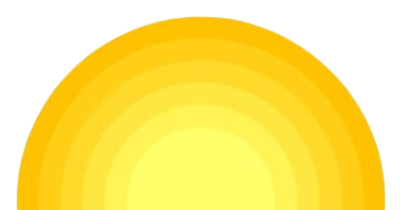
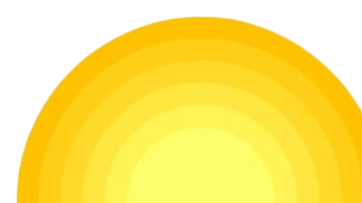
added the img

diff --git a/styles/portfolio.css b/styles/portfolio.css
@@ -13,7 +13,7 @@ body {
 .btn-primary {
     border-radius: 5px;
     background-color: #FD6E0A;
-    border: 0px;
+    border: 5px;
     color: white;
     font-size: 20px;
     font-weight: 700px;
@@ -22,7 +22,7 @@ body {
 
 nav {
     display: flex;
-    justify-content: space-between;
+    justify-content: space-around;
     align-items: center;
     margin: 0px 200px;
 }
@@ -31,7 +31,6 @@ nav {
     color: #181818;
     font-size: 45px;
     font-weight: 800;
-
 }
 
 nav>ul {
@@ -50,19 +49,21 @@ nav a {
 }
 .header{
     background-color: #fff8f3;
-   background-image: url('../images/yellow2.png');
+    background-image: url('../images/yellow2.png') ;
     background-repeat: no-repeat;
-    background-position: bottom right;
-    background-size: 1100px;
+    background-position: bottom right ;
+    background-size: 500px;
+    
 }
 
 .banner{
-    padding: 30px 30px 0px 150px;
+    padding: 0px 0px 0px 150px;
     display: flex;
     align-items: center;
     justify-content: space-between;
 }
-.banner .profile-pic{width: 1400px;
+.banner .profile-pic{width: 600px;margin-left: 300px;
+    display: flex;
 }
 .banner-greeting{font-size: 45px;
 color: #474747;
@@ -72,9 +73,8 @@ margin-bottom: 0px;
     font-size: 85px;
     font-weight: 700px;
     margin-top: 5px;
-    margin-bottom: 20px;
+    margin-bottom: 2px;
 }
 .banner-content{
     max-width: 500px;
 }
-.profile-pic{align-items: flex-end; margin-bottom: 20px;}
